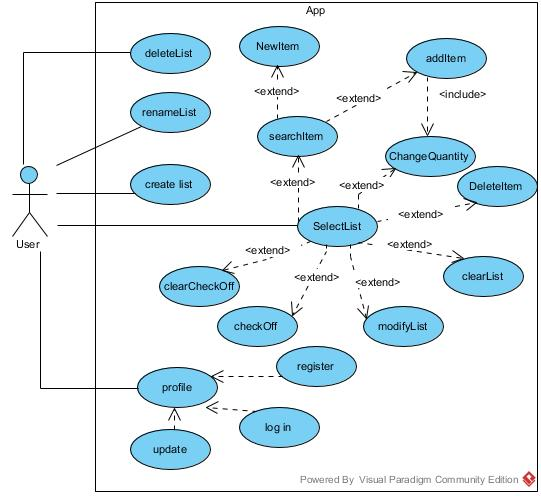
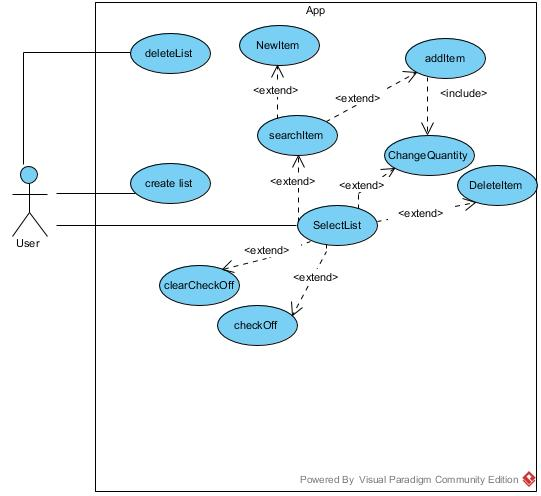
correct Use Case

diff --git a/GroupProject/Docs/UseCaseModel.md b/GroupProject/Docs/UseCaseModel.md
@@ -13,7 +13,7 @@ Version 2.0:
 
 ## 1 Use Case Diagram
 
-![userCaseDiagram](https://github.com/qc-se-spring2018/370Spring18Team5/blob/master/GroupProject/Design-Team/Use%20Case.jpg)
+![userCaseDiagram](https://github.com/qc-se-spring2018/370Spring18Team5/blob/master/GroupProject/Docs/Use%20Case.jpg)
 
 ## 2 Use Case Descriptions
 
@@ -147,74 +147,6 @@ Version 2.0:
 					<li>Return to Normal Course Step 1</li>
 				</ol>
 				Ex3: User fails to delete list
-				<ol>
-					<li>Inform user that an error has occurred</li>
-					<li>Return to Normal Course Step 3</li>
-				</ol>
-			</td>
-		</tr>
-	</tbody>
-</table>
-
-<!-- 3 -->
-
-<table>
-	<thead>
-		<tr>
-			<th colspan="3"><b>Rename List</b></th>
-		</tr>
-	</thead>
-	<tbody>
-		<tr>
-			<td><b>Brief description:</b></td>
-			<td>The Actor renames a List</td>
-		</tr>
-		<tr>
-			<td><b>Actor:</b></td>
-			<td>User</td>
-		</tr>
-		<tr>
-			<td><b>Pre-conditions:</b></td>
-			<td>
-				<ol>
-					<li>The user opens the app</li>
-					<li>The List must be created</li>
-				</ol>
-			</td>
-		</tr>
-		<tr>
-			<td><b>Post-conditions:</b></td>
-			<td>List is renamed</td>
-		</tr>
-		<tr>
-			<td><b>Normal Course:</b></td>
-			<td>
-				<ol>
-					<li>The user opens the app</li>
-					<li>The user selects a list</li>
-					<li>The user selects the name of the list and renames it</li>
-					<li>The app acknowledges that the list has been renamed</li>
-					<li>The app redirects user to main page</li>
-				</ol>
-			</td>
-		</tr>
-		<tr>
-			<td><b>Exception</b></td>
-			<td>Ex1: App determines the new name of the list has been used
-				<ol>
-					<li>Inform user that the name has been used</li>
-					<li>Return to Normal Course step 3</li>
-				</ol>
-				Ex2: User closes app
-				<ol>
-					<li>Return to Normal Course Step 1</li>
-				</ol>
-				Ex3: The name user enters contains symbols<br>
-				<ol>
-					<li>Inform user that symbols are not allowed</li>
-					<li>Return to Normal Course Step 3</li>
-				</ol>
-				Ex4: The user fails to rename the list
 				<ol>
 					<li>Inform user that an error has occurred</li>
 					<li>Return to Normal Course Step 3</li>
@@ -407,122 +339,6 @@ Version 2.0:
 					<li>Return to Normal Course Step 4</li>
 				</ol>
 				Ex4: Fail to change quantity of item
-				<ol>
-					<li>Inform user that an error has occurred</li>
-					<li>Return to Normal Course Step 3</li>
-				</ol>
-			</td>
-		</tr>
-	</tbody>
-</table>
-<!-- 7 -->
-<table>
-	<thead>
-		<tr>
-			<th colspan="3"><b>Clear List</b></th>
-		</tr>
-	</thead>
-	<tbody>
-		<tr>
-			<td><b>Brief description:</b></td>
-			<td>The user removes all items in the List</td>
-		</tr>
-		<tr>
-			<td><b>Actor:</b></td>
-			<td>User</td>
-		</tr>
-		<tr>
-			<td><b>Pre-conditions:</b></td>
-			<td>
-				<ol>
-					<li>The user must open the app</li>
-					<li>The List must be created</li>
-				</ol>
-			</td>
-		</tr>
-		<tr>
-			<td><b>Post-conditions:</b></td>
-			<td>The list is empty</td>
-		</tr>
-		<tr>
-			<td><b>Normal Course:</b></td>
-			<td>
-				<ol>
-					<li>The user opens the app</li>
-					<li>The user selects a list</li>
-					<li>The user chooses "Clear List"</li>
-					<li>The app prompts user to comfirm</li>
-					<li>The app acknowledges the list has been cleared</li>
-					<li>The app redirects user to the item list page</li>
-				</ol>
-			</td>
-		</tr>
-		<tr>
-			<td><b>Exception</b></td>
-			<td>
-				Ex1: User closes app
-				<ol>
-					<li>Return to Normal Course Step 1</li>
-				</ol>
-				Ex2: Fail to clear list
-				<ol>
-					<li>Inform user that an error has occurred</li>
-					<li>Return to Normal Course Step 2</li>
-				</ol>
-			</td>
-		</tr>
-	</tbody>
-</table>
-<!-- 8 -->
-<table>
-	<thead>
-		<tr>
-			<th colspan="3"><b>Modify List</b></th>
-		</tr>
-	</thead>
-	<tbody>
-		<tr>
-			<td><b>Brief description:</b></td>
-			<td>The user changes the order of the list</td>
-		</tr>
-		<tr>
-			<td><b>Actor:</b></td>
-			<td>User</td>
-		</tr>
-		<tr>
-			<td><b>Pre-conditions:</b></td>
-			<td>
-				<ol>
-					<li>The user must open the app</li>
-					<li>There must be at least two lists</li>
-				</ol>
-			</td>
-		</tr>
-		<tr>
-			<td><b>Post-conditions:</b></td>
-			<td>Order of list changes</td>
-		</tr>
-		<tr>
-			<td><b>Normal Course:</b></td>
-			<td>
-				<ol>
-					<li>The user opens the app</li>
-					<li>The user choose "Modify List"</li>
-					<li>The user selects two lists</li>
-					<li>The app prompts user to comfirm</li>
-					<li>The app acknowledges order of list has been changed</li>
-					<li>The app redirects user to the list page</li>
-				</ol>
-			</td>
-		</tr>
-		<tr>
-			<td><b>Exception</b></td>
-			<td>
-				Ex1: User closes app
-				<ol>
-					<li>Return to Normal Course Step 1</li>
-				</ol>
-				Ex2: Lists do not swap
 				<ol>
 					<li>Inform user that an error has occurred</li>
 					<li>Return to Normal Course Step 3</li>
